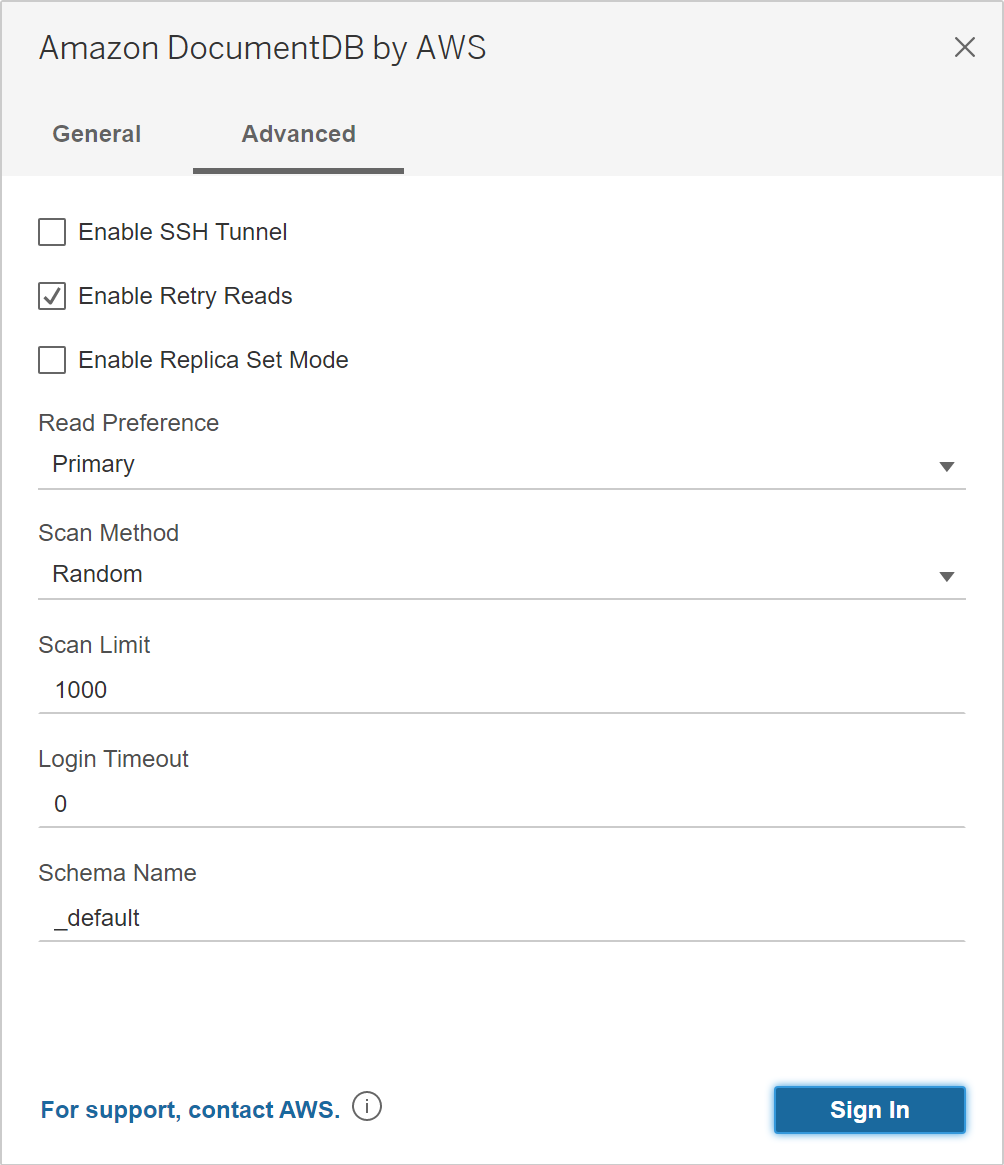
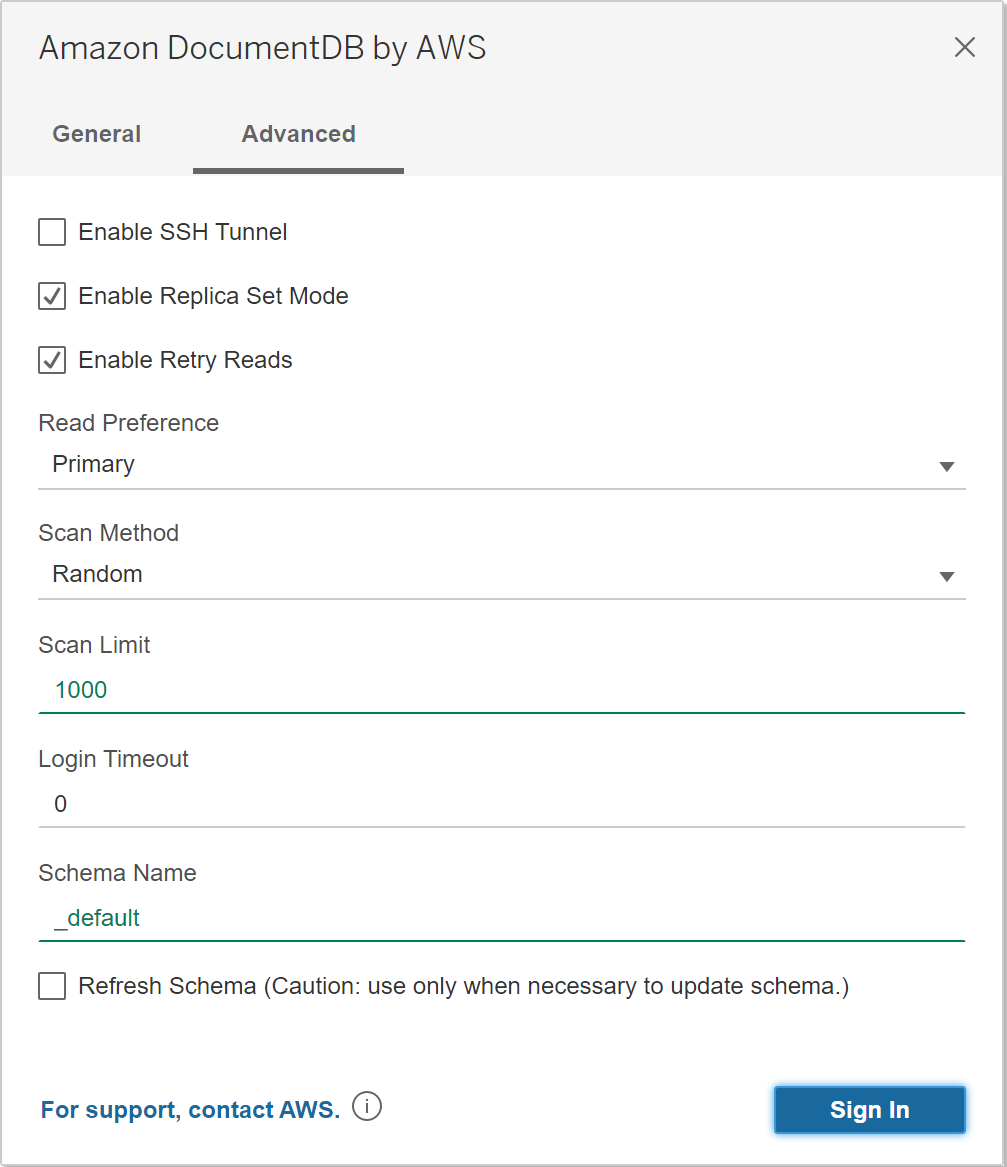
[AD-366] Add documentation for refreshSchema connection string option and Tableau connection dialog image. https://bitquill.atlassian.net/browse/AD-366

diff --git a/src/markdown/setup/connection-string.md b/src/markdown/setup/connection-string.md
@@ -35,7 +35,8 @@
 | `scanMethod` | (enum/string) The scanning (sampling) method to use when discovering collection metadata for determining table schema. Possible values include the following: 1) `random` - the sample documents are returned in _random_ order, 2) `idForward` - the sample documents are returned in order of id, 3) `idReverse` - the sample documents are returned in reverse order of id or 4) `all` - sample all the documents in the collection. | `random`
 | `scanLimit` | (int) The number of documents to sample. The value must be a positive integer. If `scanMethod` is set to `all`, this option is ignored. | `1000`
 | `schemaName` | (string) The name of the SQL mapping schema for the database. | `_default`.  
-| `defaultFetchSize` | (int) The default fetch size (in records) when retrieving results from Amazon DocumentDB. It is the number of records to retrieve in a single batch. The maximum numberof records retrieved in a single batch may also be limited by the overall memory size of the result. The value can be changed by calling the `Statement.setFetchSize` JDBC method. | `2000`
+| `defaultFetchSize` | (int) The default fetch size (in records) when retrieving results from Amazon DocumentDB. It is the number of records to retrieve in a single batch. The maximum number of records retrieved in a single batch may also be limited by the overall memory size of the result. The value can be changed by calling the `Statement.setFetchSize` JDBC method. | `2000`
+| `refreshSchema` | (true/false) If true, generates (refreshes) the SQL schema with each connection. It creates a new version, leaving any existing versions in place. _Caution: use only when necessary to update schema as it can adversely affect performance._  | `false`
 
 ## Examples
 
